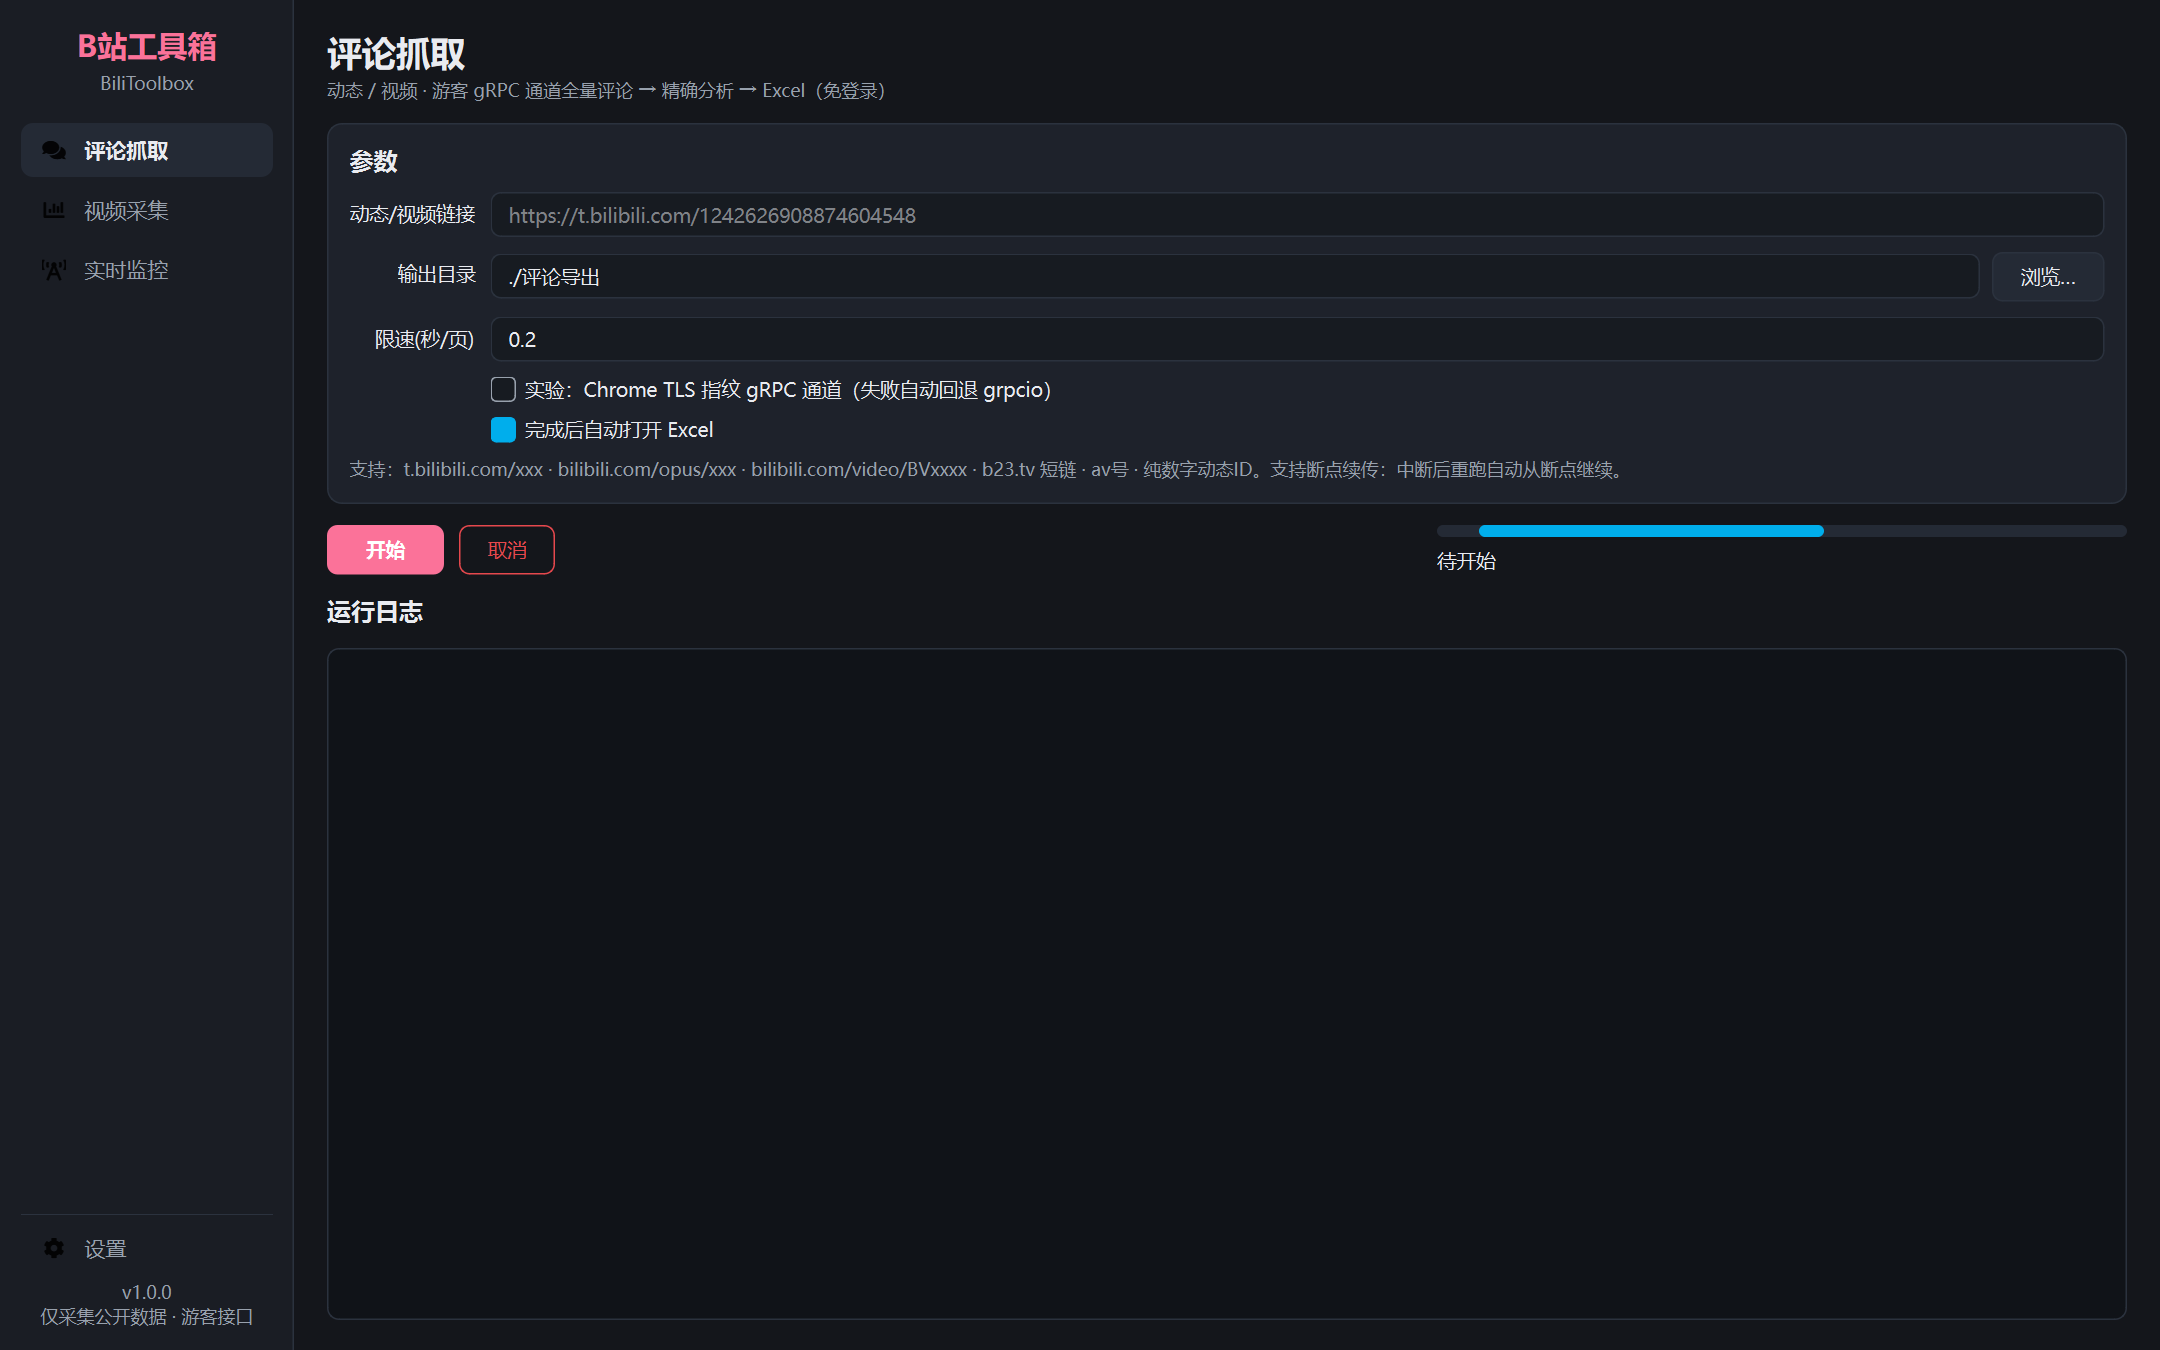
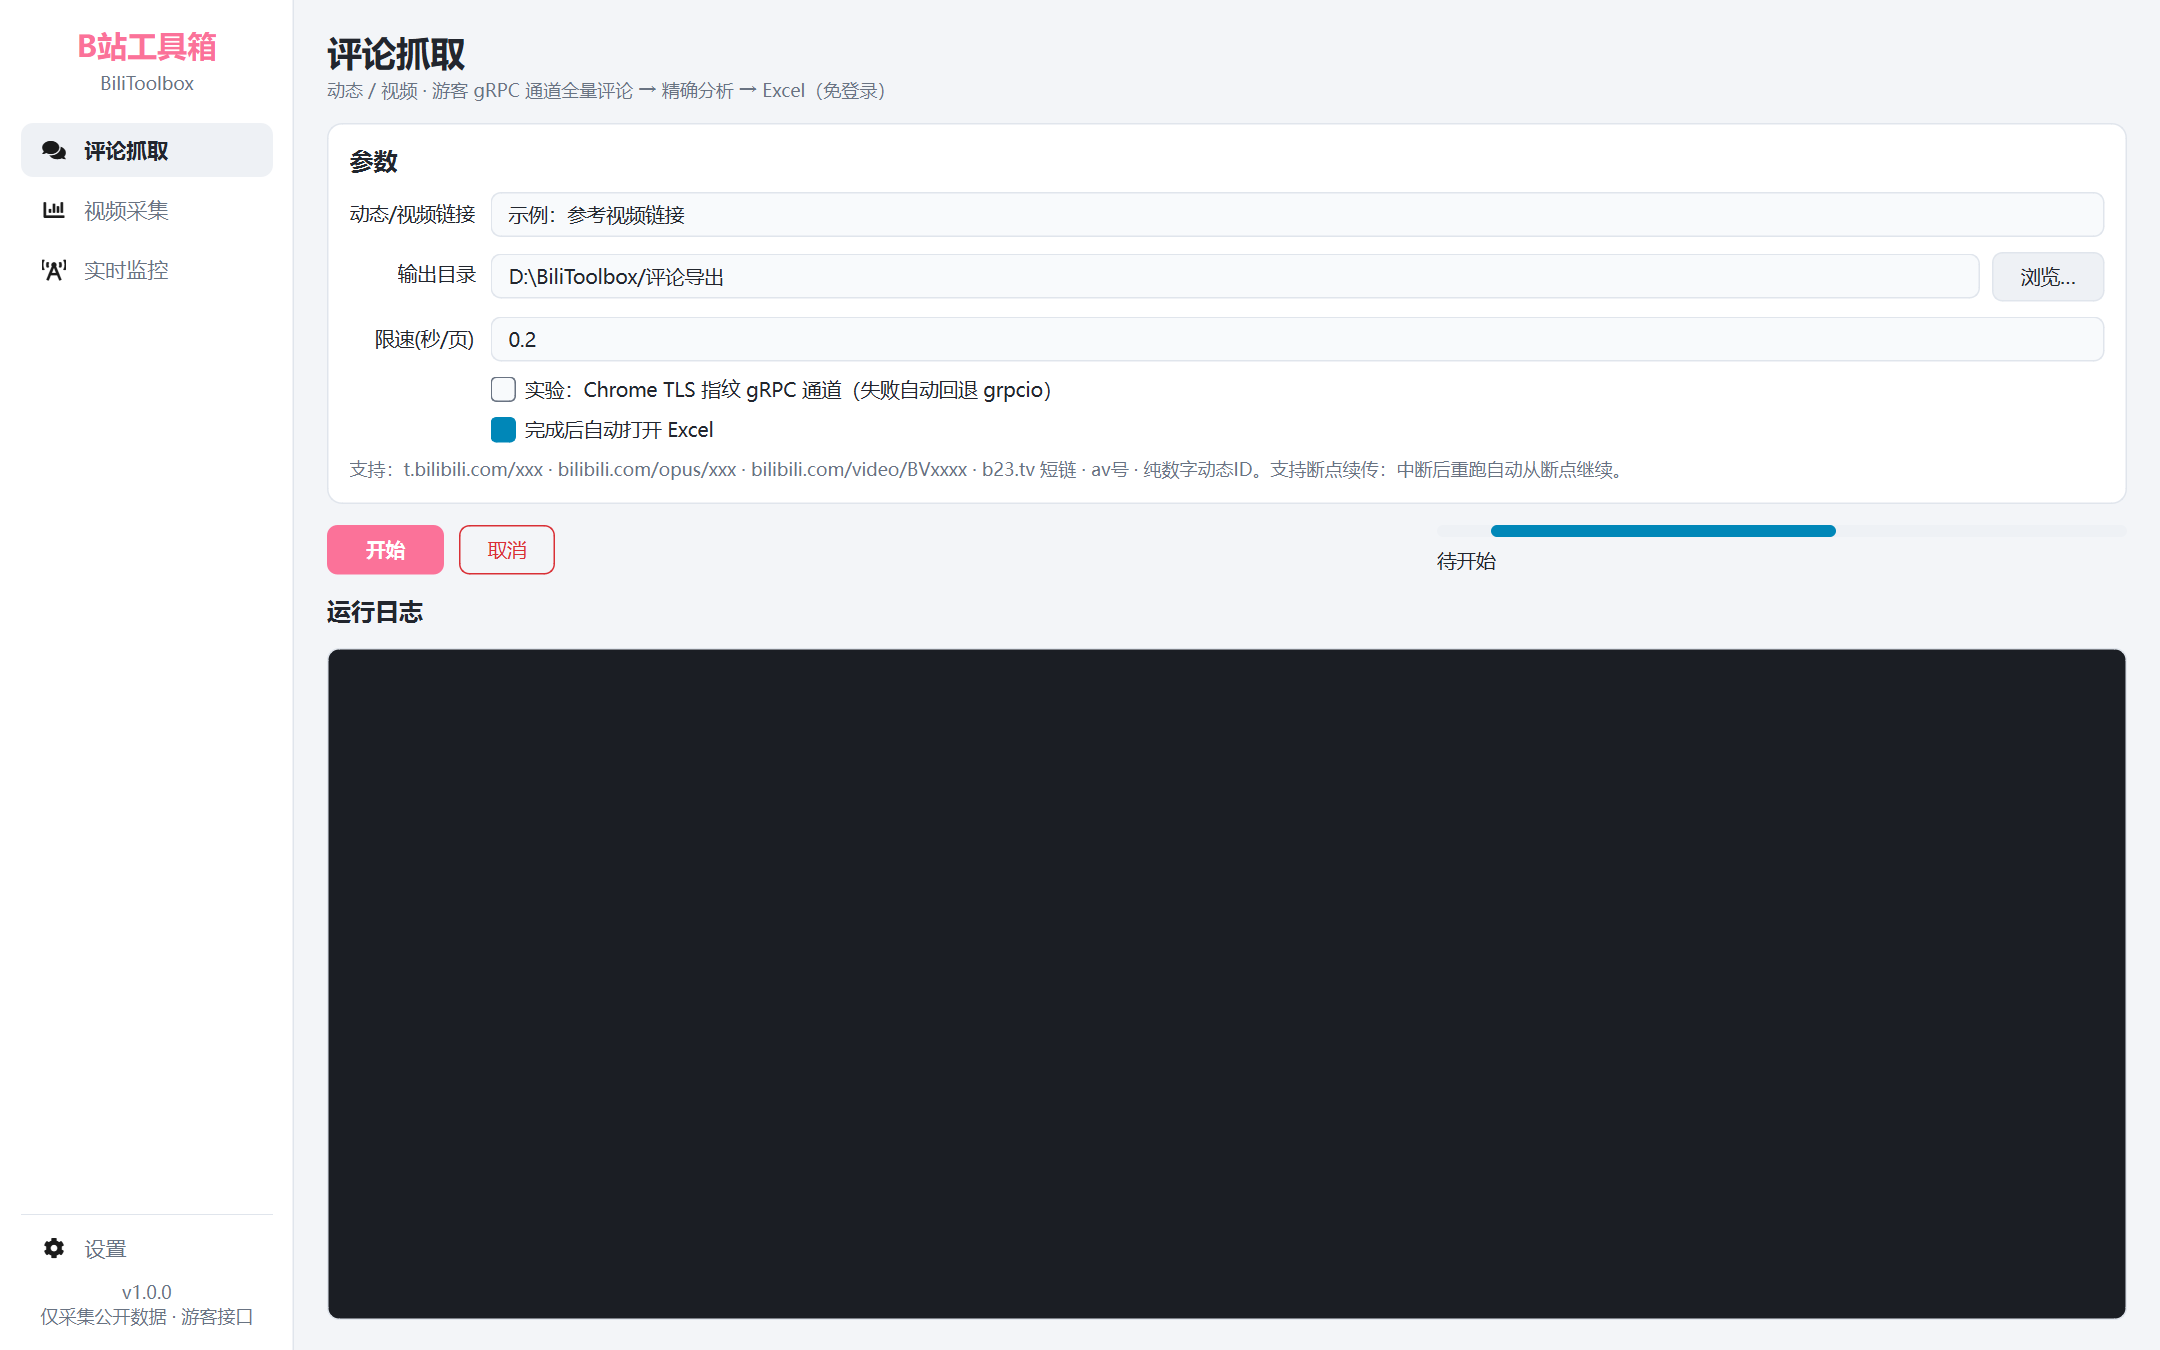
docs: 截图统一浅色主题单列展示，示例数据去标识；输入框默认示例改为中性占位

diff --git a/scripts/take_screenshots.py b/scripts/take_screenshots.py
@@ -1,0 +1,106 @@
+# -*- coding: utf-8 -*-
+"""生成 README 截图（浅色主题 + 演示数据，无真实目标信息）。开发期工具。"""
+import time
+
+import app.env  # noqa: F401
+from PySide6.QtCore import Qt, QTimer
+from PySide6.QtWidgets import QApplication, QMessageBox
+
+QMessageBox.information = staticmethod(lambda *a, **k: None)
+
+app = QApplication([])
+from app.theme import apply
+
+apply(app, "light")
+from core import config
+
+cfg = dict(config.load())
+cfg["out_dir"] = "D:\\BiliToolbox"
+from app.main_window import MainWindow
+
+win = MainWindow(cfg)
+win.setAttribute(Qt.WA_DontShowOnScreen, True)
+win.resize(1440, 900)
+win.show()
+
+# ---- 监控页采集数据去标识：真实拉取后即刻改写为演示数据 ----
+import tools.monitor.server as ms
+
+_orig_collect = ms.MonitorServer.collect_once
+
+
+def fake_collect(self, bvid):
+    meta, sample = _orig_collect(self, bvid)
+    n = len(self.state.samples)
+    meta.update({
+        "bvid": "BV1xxxxxxxxx", "aid": 0, "title": "示例视频标题（演示数据）",
+        "owner": "UP主", "owner_mid": 0, "pubdate": 1756684800,
+        "desc": "", "pic": None, "videos": 2,
+        "pages": [{"cid": 1, "page": 1, "part": "P1", "duration": 180},
+                  {"cid": 2, "page": 2, "part": "P2", "duration": 120}],
+    })
+    sample["bvid"] = "BV1xxxxxxxxx"
+    sample["view"] = 125000 + n * 53
+    sample["like"] = 8764 + n * 3
+    sample["coin"] = 3153 + n
+    sample["favorite"] = 2087 + n
+    sample["share"] = 946 + n
+    sample["danmaku"] = 4268 + n * 2
+    sample["reply"] = 1188 + n
+    sample["online"] = 44 + n * 3
+    for idx, op in enumerate(sample.get("online_pages", [])):
+        op["part"] = f"P{idx + 1}"
+        op["total"] = 44 + n * 3 - idx * 2
+        op["count"] = 31 + idx
+    return meta, sample
+
+
+ms.MonitorServer.collect_once = fake_collect
+
+jobs_done = []
+
+
+def shoot_comments():
+    win.switch(0)
+    p = win.pages[0]
+    p.link_edit.setText("示例：参考视频链接")
+    QTimer.singleShot(900, lambda: (win.grab().save("docs/screenshots/comments.png"),
+                                    print("comments ok"), shoot_collector()))
+
+
+def shoot_collector():
+    win.switch(1)
+    QTimer.singleShot(900, lambda: (win.grab().save("docs/screenshots/collector.png"),
+                                    print("collector ok"), shoot_monitor()))
+
+
+def shoot_monitor():
+    win.switch(2)
+    p = win.pages[2]
+    p.bvid_edit.setText("BV1zi7Y6BEdS")          # 内部用真实 BV 拉取，展示层已去标识
+    p.interval_spin.setValue(5)
+    p.data_row.set_value("D:\\BiliToolbox\\监控数据")
+    p.on_start()
+    p.bvid_edit.setText("")
+    p.log_panel.clear()
+    p.log_panel.append("监控已启动（演示数据），每 5 秒采样一次…")
+    p.log_panel.append("仪表盘加载中…")
+
+    def reload_view():
+        if p.view is not None:
+            p.view.reload()
+        QTimer.singleShot(8000, finish)
+
+    def finish():
+        p.log_panel.clear()
+        p.log_panel.append("已启动监控（演示数据）")
+        p.log_panel.append("正常 · 已采样 6 次 · 通道 h2-ja3")
+        ok = win.grab().save("docs/screenshots/monitor.png")
+        print("monitor ok:", ok)
+        app.quit()
+
+    QTimer.singleShot(14000, reload_view)
+
+
+QTimer.singleShot(1200, shoot_comments)
+app.exec()

diff --git a/tools/monitor/page.py b/tools/monitor/page.py
@@ -44,7 +44,7 @@ class MonitorPage(QWidget):
         form.setLabelAlignment(Qt.AlignRight)
         form.setSpacing(10)
         self.bvid_edit = QLineEdit()
-        self.bvid_edit.setPlaceholderText("BV1zi7Y6BEdS")
+        self.bvid_edit.setPlaceholderText("示例：BV1xxxxxxxxx")
         form.addRow("视频 BV 号", self.bvid_edit)
         self.interval_spin = QSpinBox()
         self.interval_spin.setRange(5, 3600)

diff --git a/tools/comments/page.py b/tools/comments/page.py
@@ -8,7 +8,7 @@ from app.widgets import PathRow, muted
 
 from .pipeline import run_pipeline
 
-SAMPLE_LINK = "https://t.bilibili.com/1242626908874604548"
+SAMPLE_LINK = "粘贴动态或视频链接：t.bilibili.com/… · bilibili.com/video/BV… · b23.tv/… · av…"
 
 
 class CommentsPage(TaskPage):

diff --git a/README.md b/README.md
@@ -31,13 +31,17 @@
 
 ## 📸 截图
 
-| 评论抓取 | 实时监控 |
-|---|---|
-| ![评论抓取](docs/screenshots/comments.png) | ![实时监控](docs/screenshots/monitor.png) |
+**💬 评论抓取**
 
-| 视频采集 | 浅色主题 |
-|---|---|
-| ![视频采集](docs/screenshots/collector.png) | ![浅色主题](docs/screenshots/settings_light.png) |
+![评论抓取](docs/screenshots/comments.png)
+
+**📊 视频采集**
+
+![视频采集](docs/screenshots/collector.png)
+
+**📡 实时监控（演示数据）**
+
+![实时监控](docs/screenshots/monitor.png)
 
 ## 📥 下载
 
